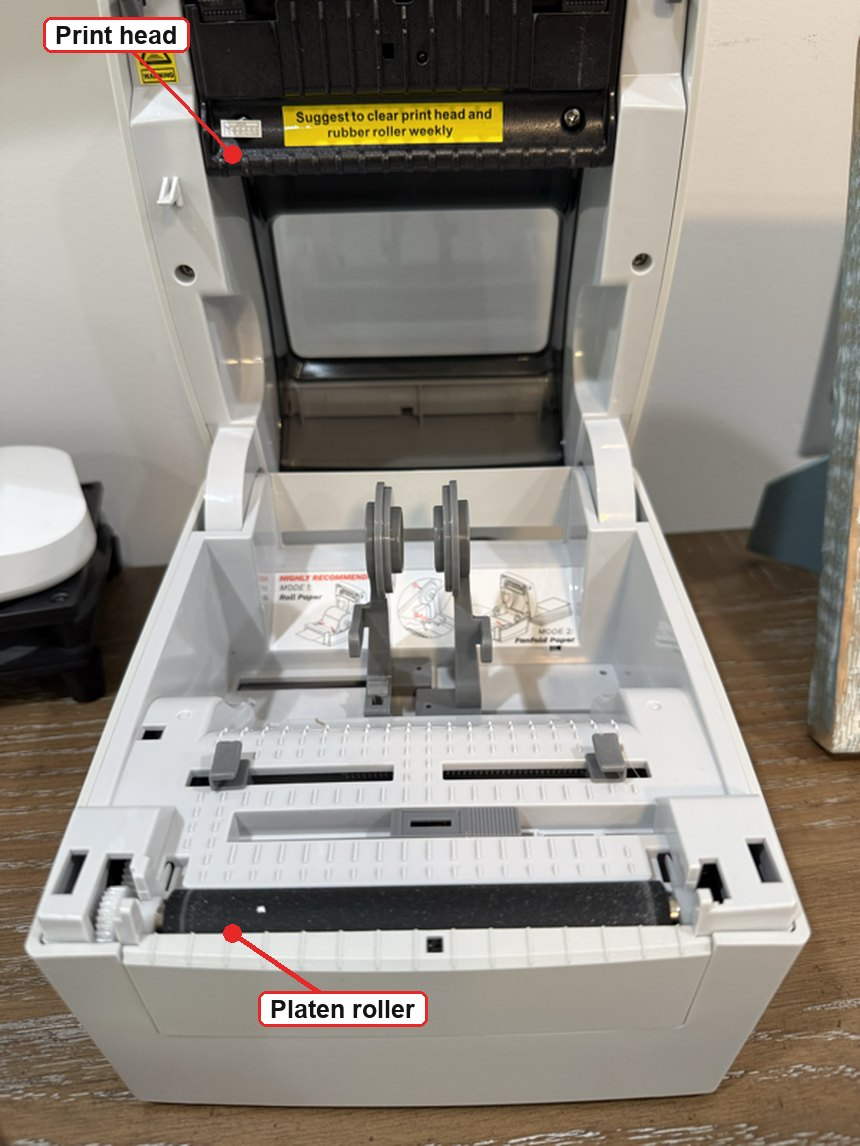
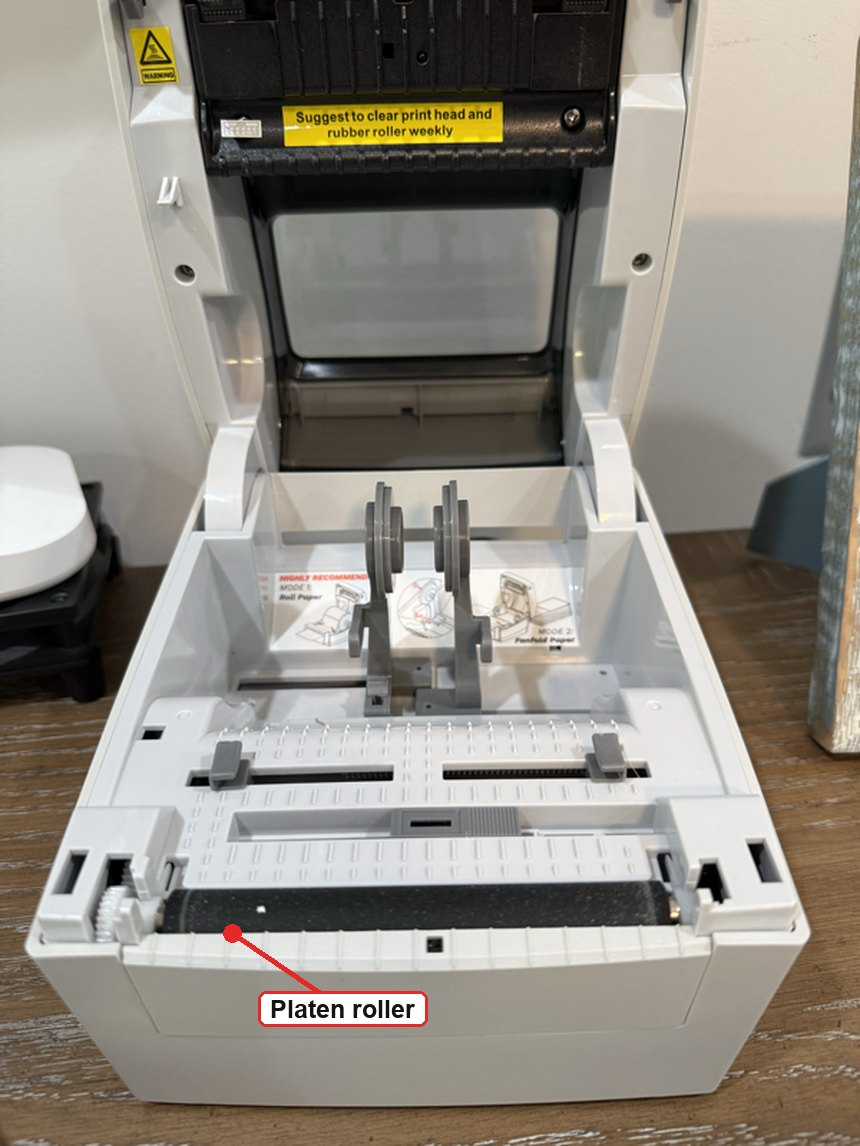
Remove the misplaced print head callout from the overview photo
The print head sits on the underside of the lid, facing down and away from
the camera, so it is not actually visible in the overview shot - the callout
was pointing at the assembly housing instead. Marking a part that cannot be
seen is worse than not marking it, since a reader would clean the wrong
surface and conclude cleaning does not help.

The overview now marks only the platen roller, and the caption says plainly
that the head is underneath the lid and shown in the close-up instead.

Changed region(s): [[0.0302, 0.0, 0.2419, 0.0916], [0.2419, 0.1222, 0.3023, 0.1527], [0.2116, 0.0916, 0.2419, 0.1222]]

diff --git a/docs/print-quality.md b/docs/print-quality.md
@@ -29,12 +29,13 @@ in five minutes with a cotton swab.
 Open the cover and you'll see the two parts that matter. Everything on this page
 is about keeping these two clean:
 
-![FreeX thermal printer with the cover open, showing the print head on the underside of the lid and the black rubber platen roller in the base](images/printer-open-overview.jpg)
+![FreeX thermal printer with the cover open, showing the black rubber platen roller in the base](images/printer-open-overview.jpg)
 
-- The **print head** is on the underside of the lid — a thin strip that runs the
-  full width of the paper path. It applies the heat that darkens the label.
-- The **platen roller** is the black rubber cylinder in the base. It presses the
-  label against the head and pulls it through.
+- The **platen roller** is the black rubber cylinder in the base — easy to spot,
+  marked above. It presses the label against the head and pulls it through.
+- The **print head** is on the **underside of the lid**, facing down. You cannot
+  see it from this angle, which is why it is not marked here — tilt the lid up
+  and look underneath, or see the close-up in the next section.
 
 FreeX puts a sticker right on the print head assembly saying *"Suggest to clear
 print head and rubber roller weekly."* They are not being cautious — these are
